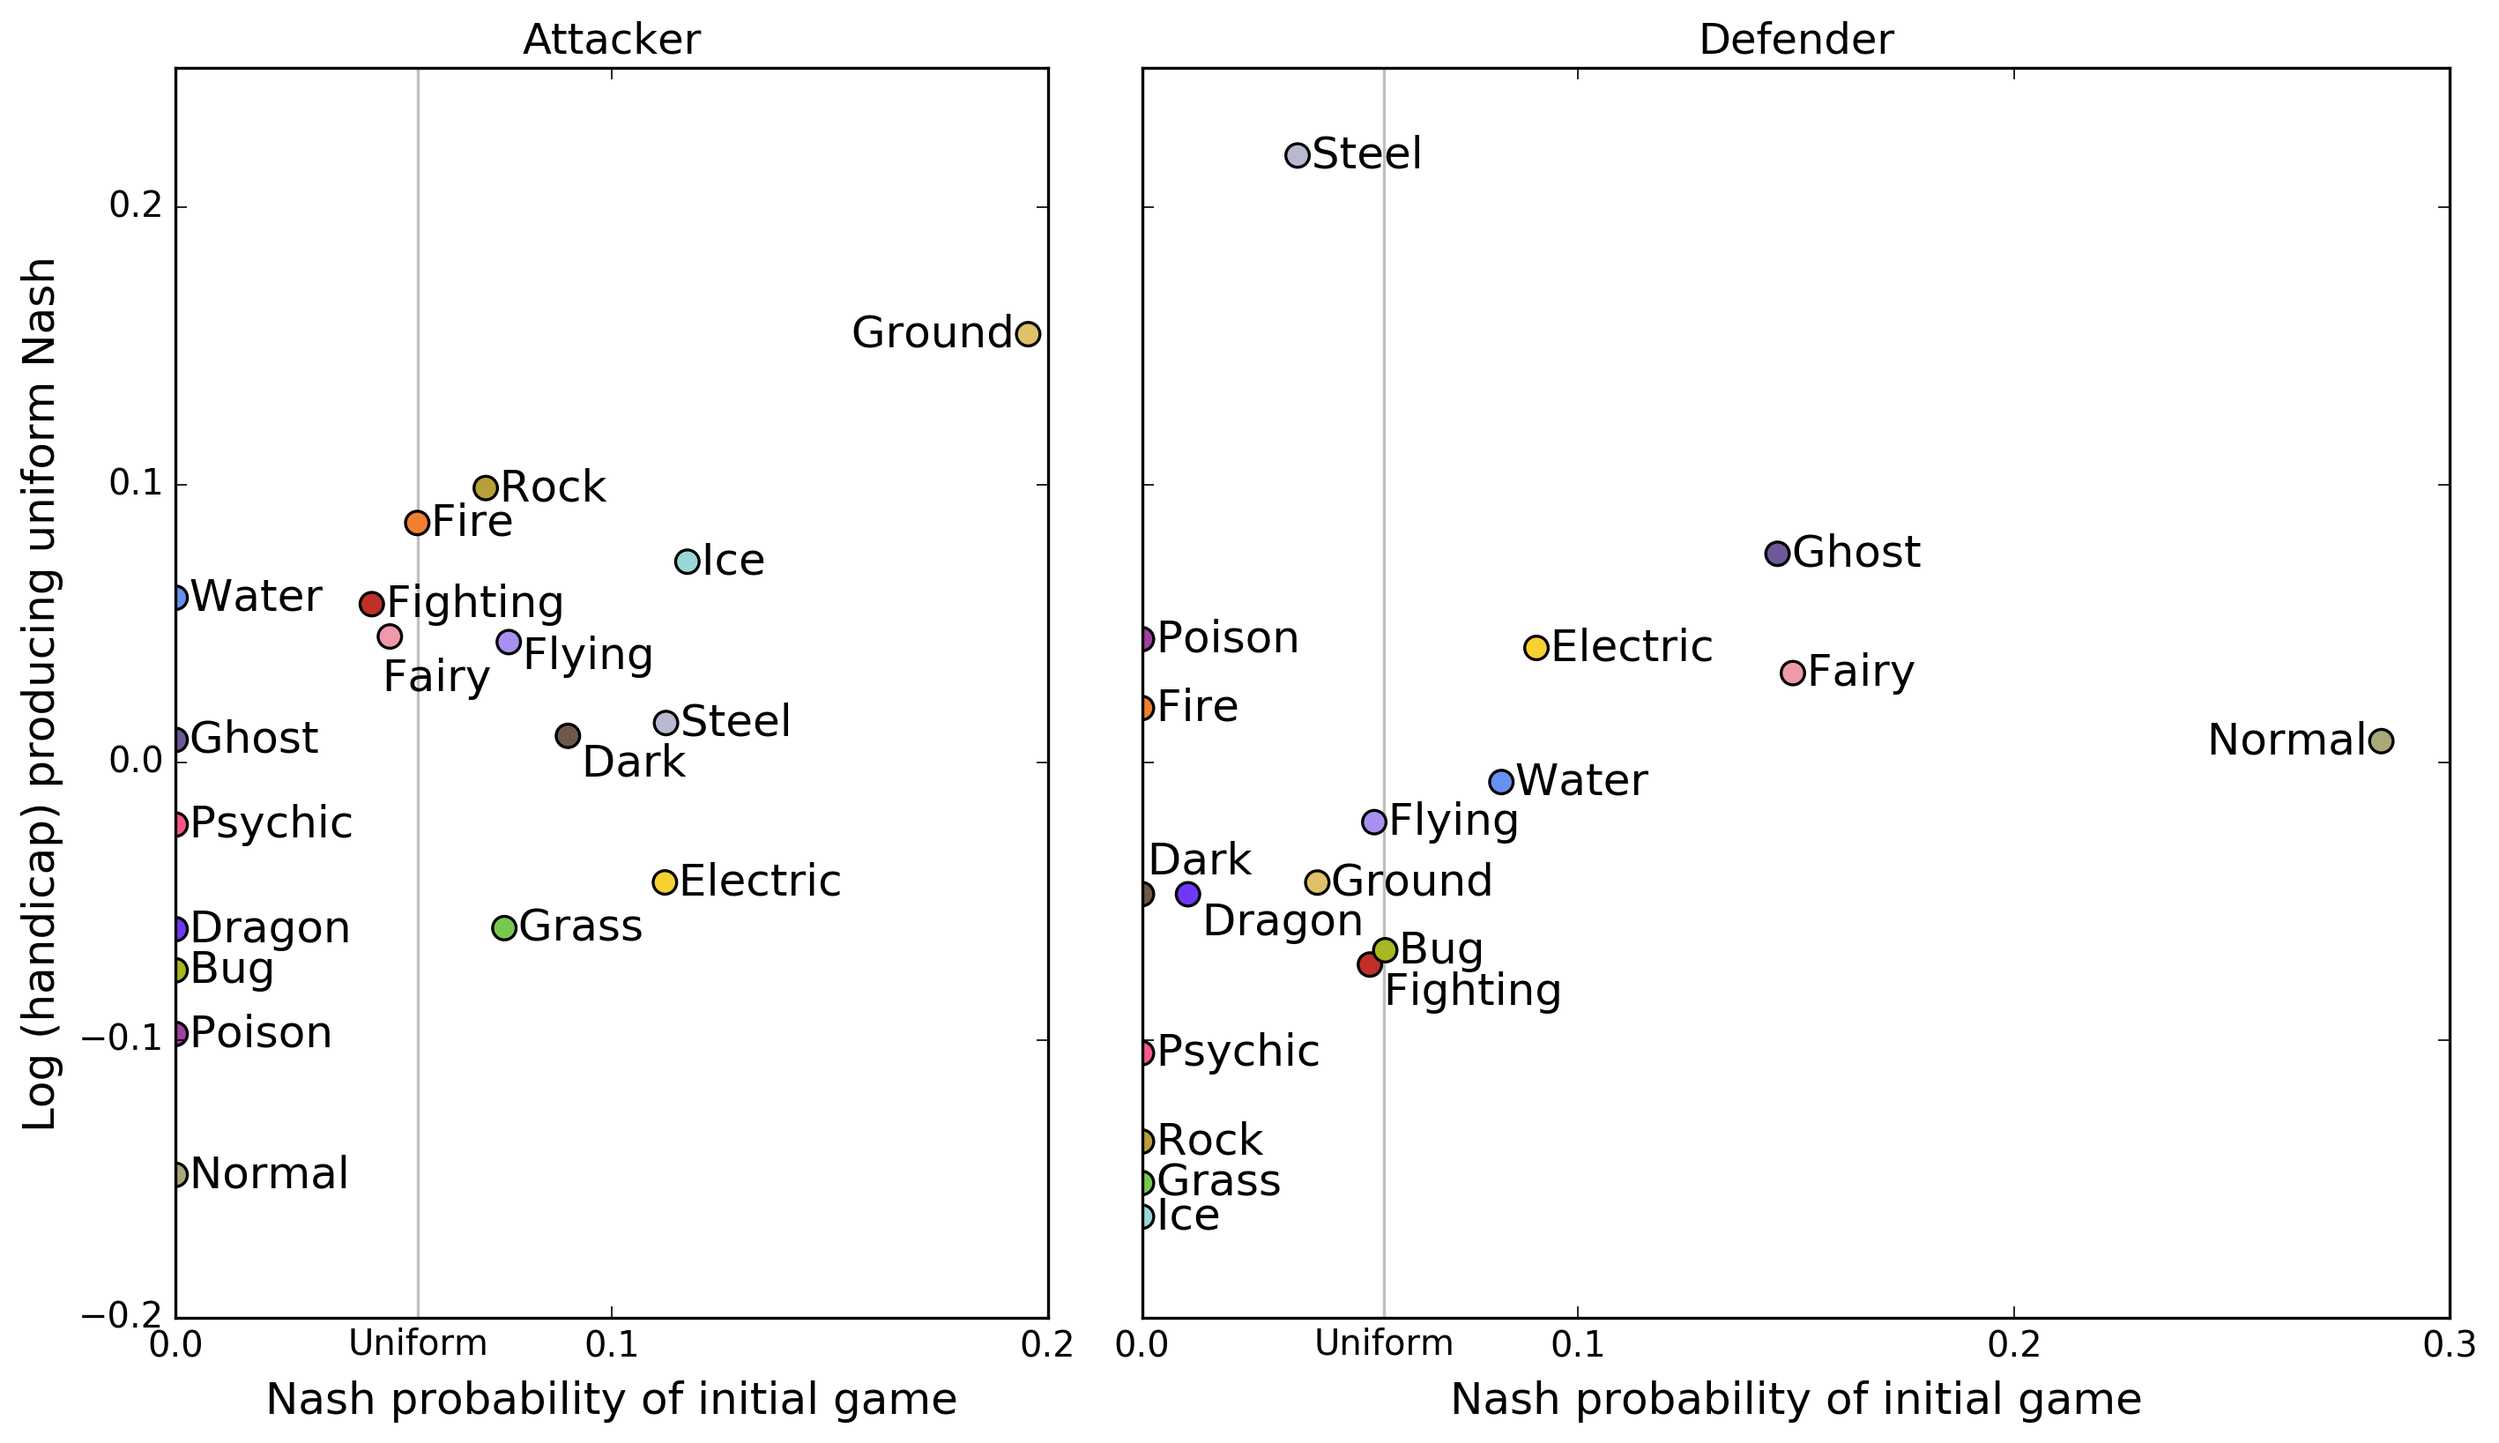
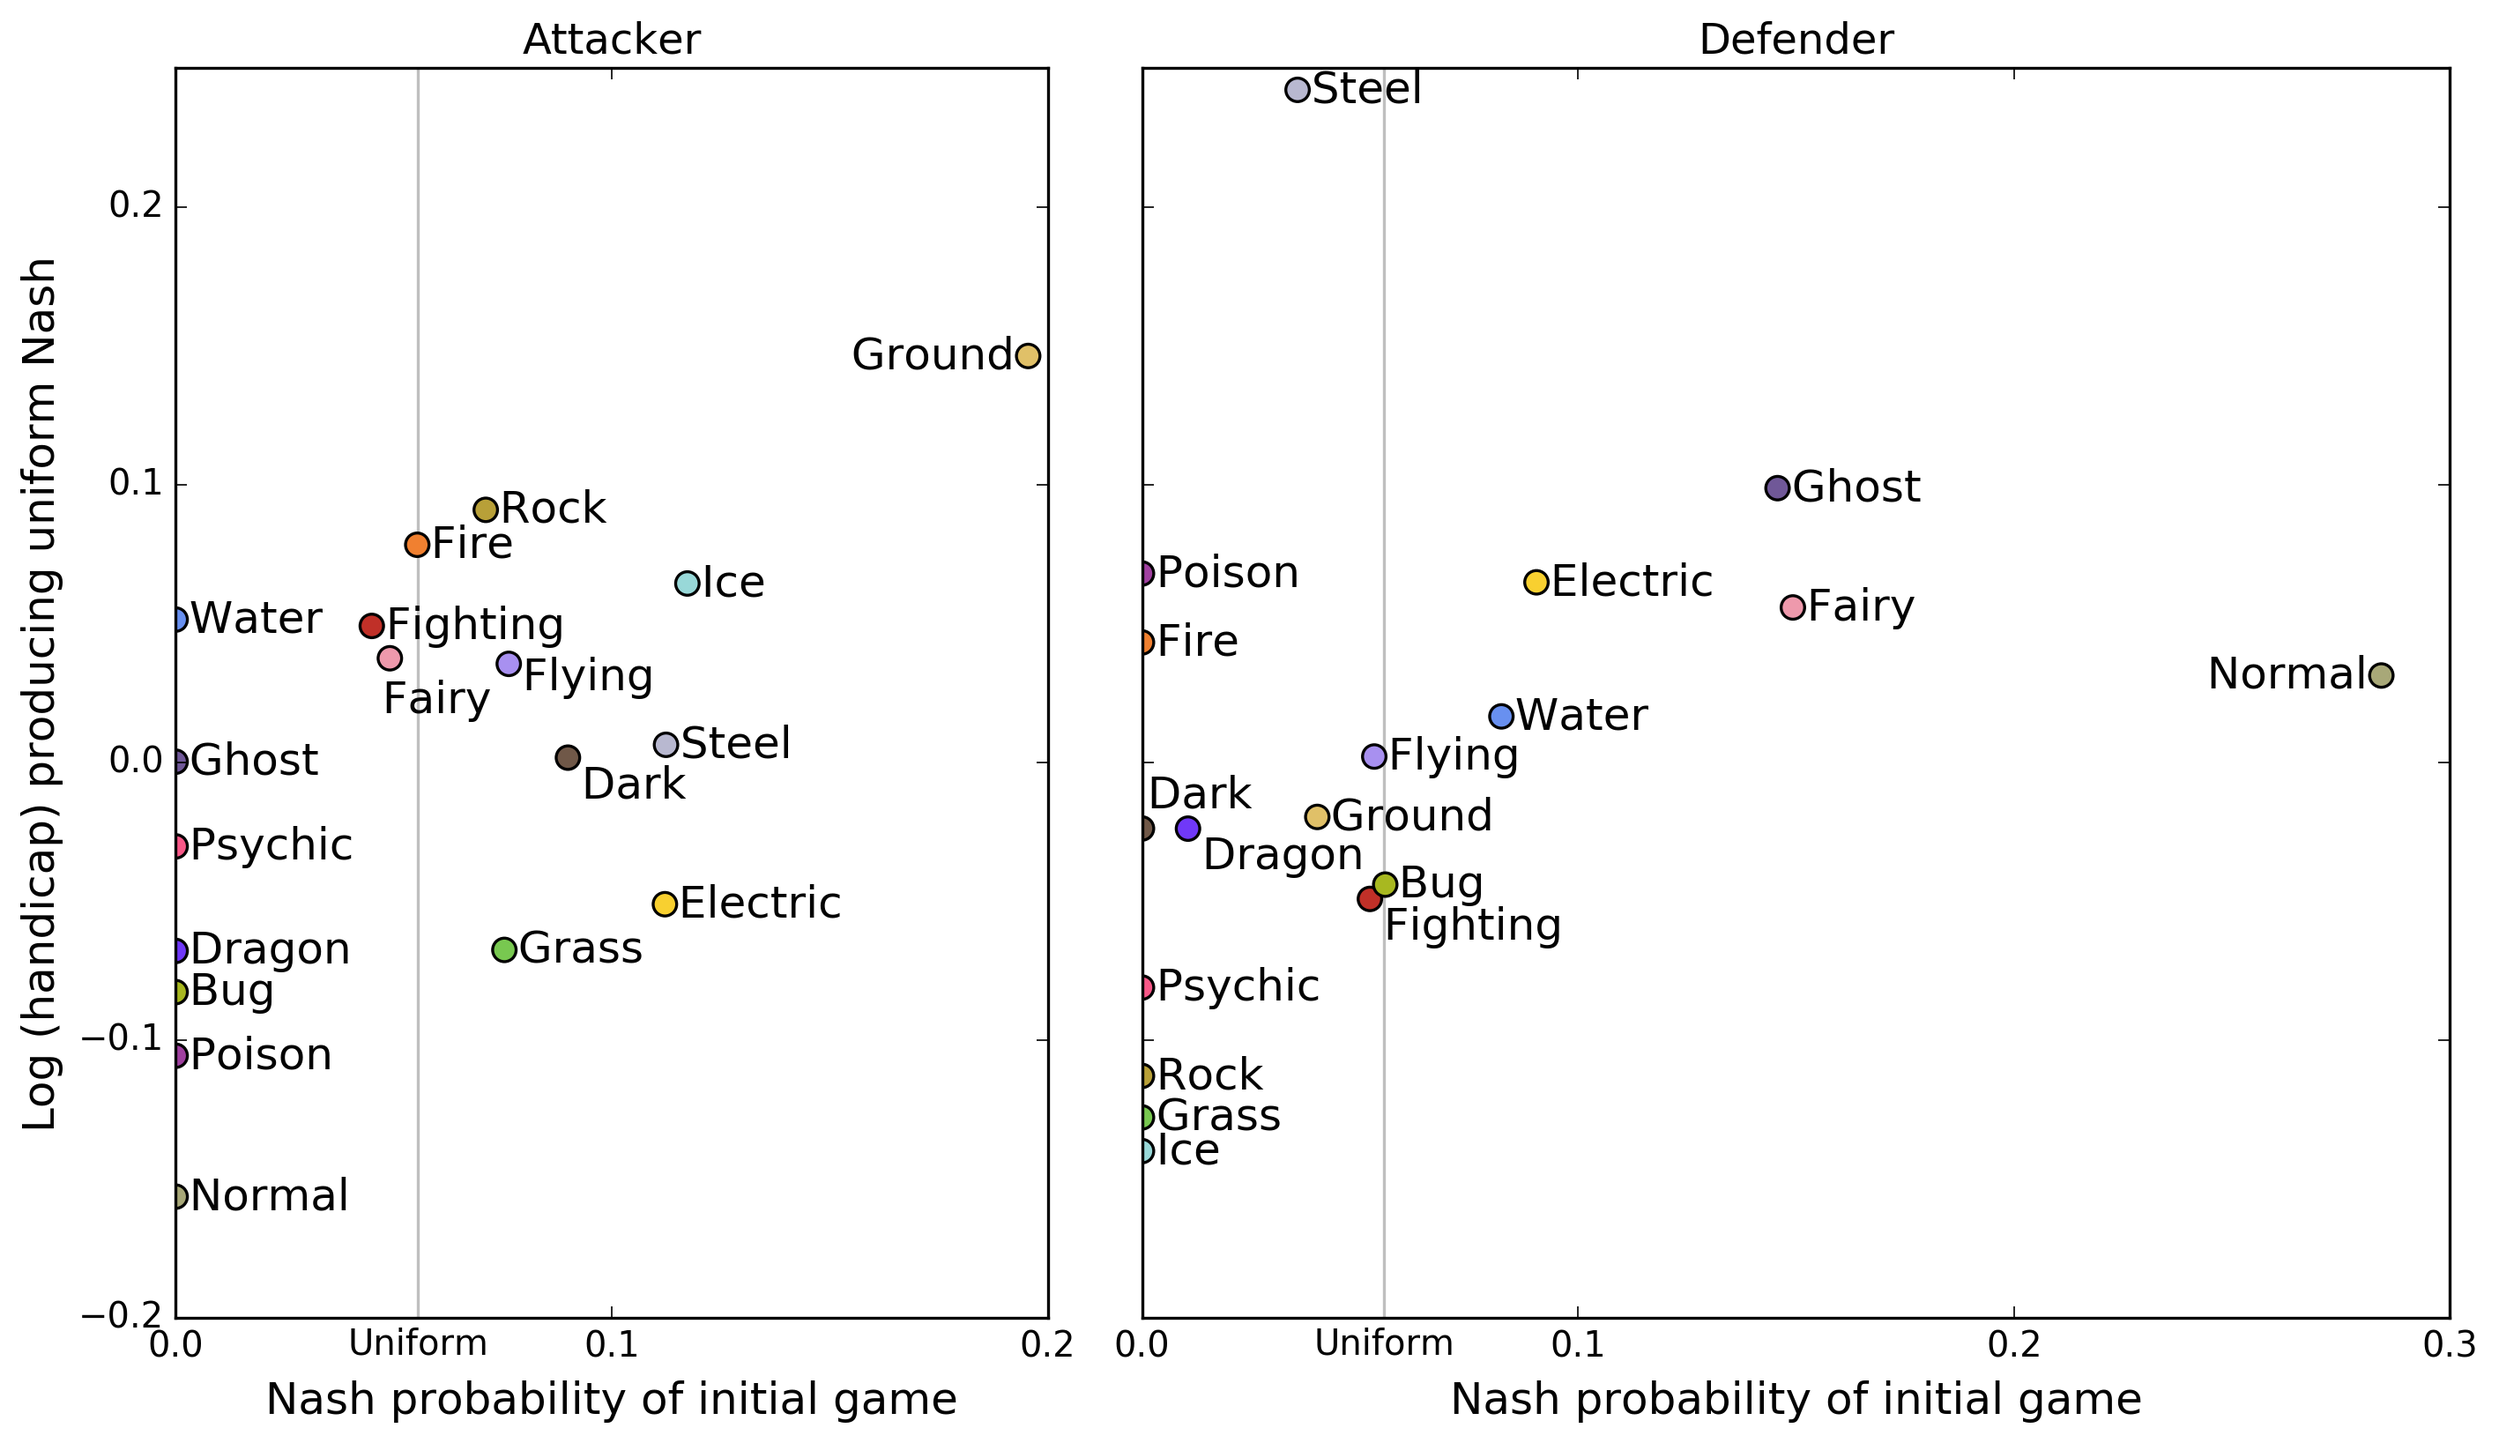
mean 0 on y-axis for pokemon example

diff --git a/python/examples/pokemon.py b/python/examples/pokemon.py
@@ -44,7 +44,7 @@ plt.text(uniform_x, -0.203, 'Uniform',
 
 # Scatter plot of handicaps vs. Nash of initial game.
 x = row_nash.strategy
-y = balance.row_log_handicaps
+y = balance.row_log_handicaps - numpy.mean(balance.row_log_handicaps)
 
 ax.scatter(x, y, s = marker_size, c = colors)
 
@@ -90,7 +90,7 @@ plt.text(uniform_x, -0.203, 'Uniform',
          ha = 'center', va = 'top')
 
 x = col_nash.strategy
-y = balance.col_log_handicaps
+y = balance.col_log_handicaps - numpy.mean(balance.col_log_handicaps)
 
 ax.scatter(x, y, s = marker_size, c = colors)
 
